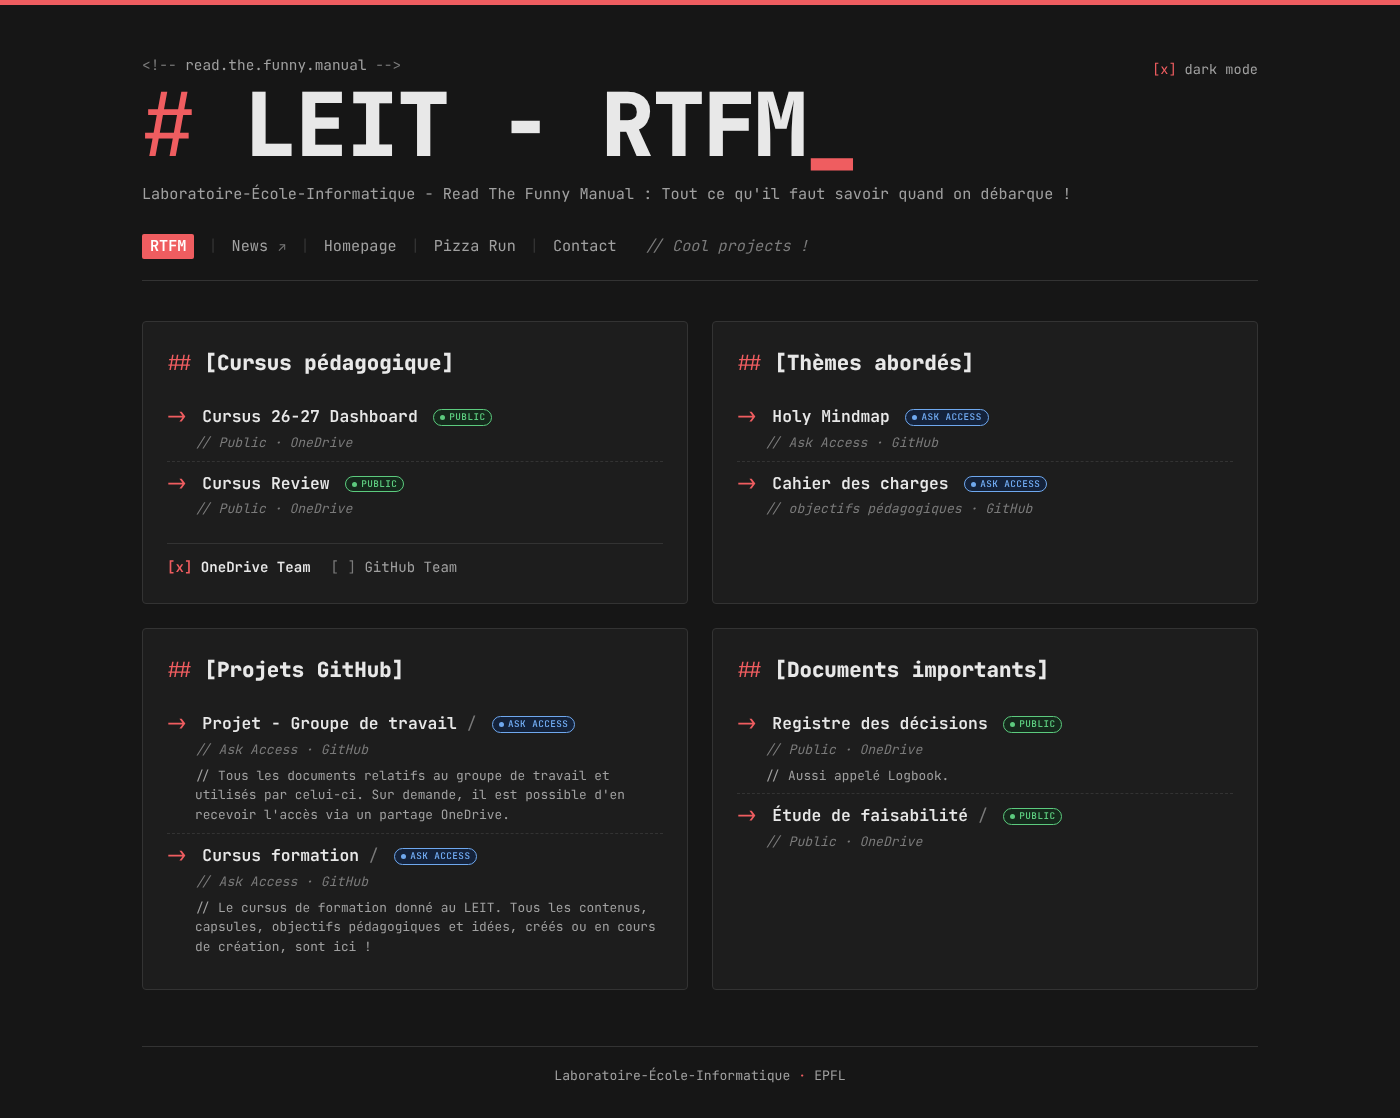
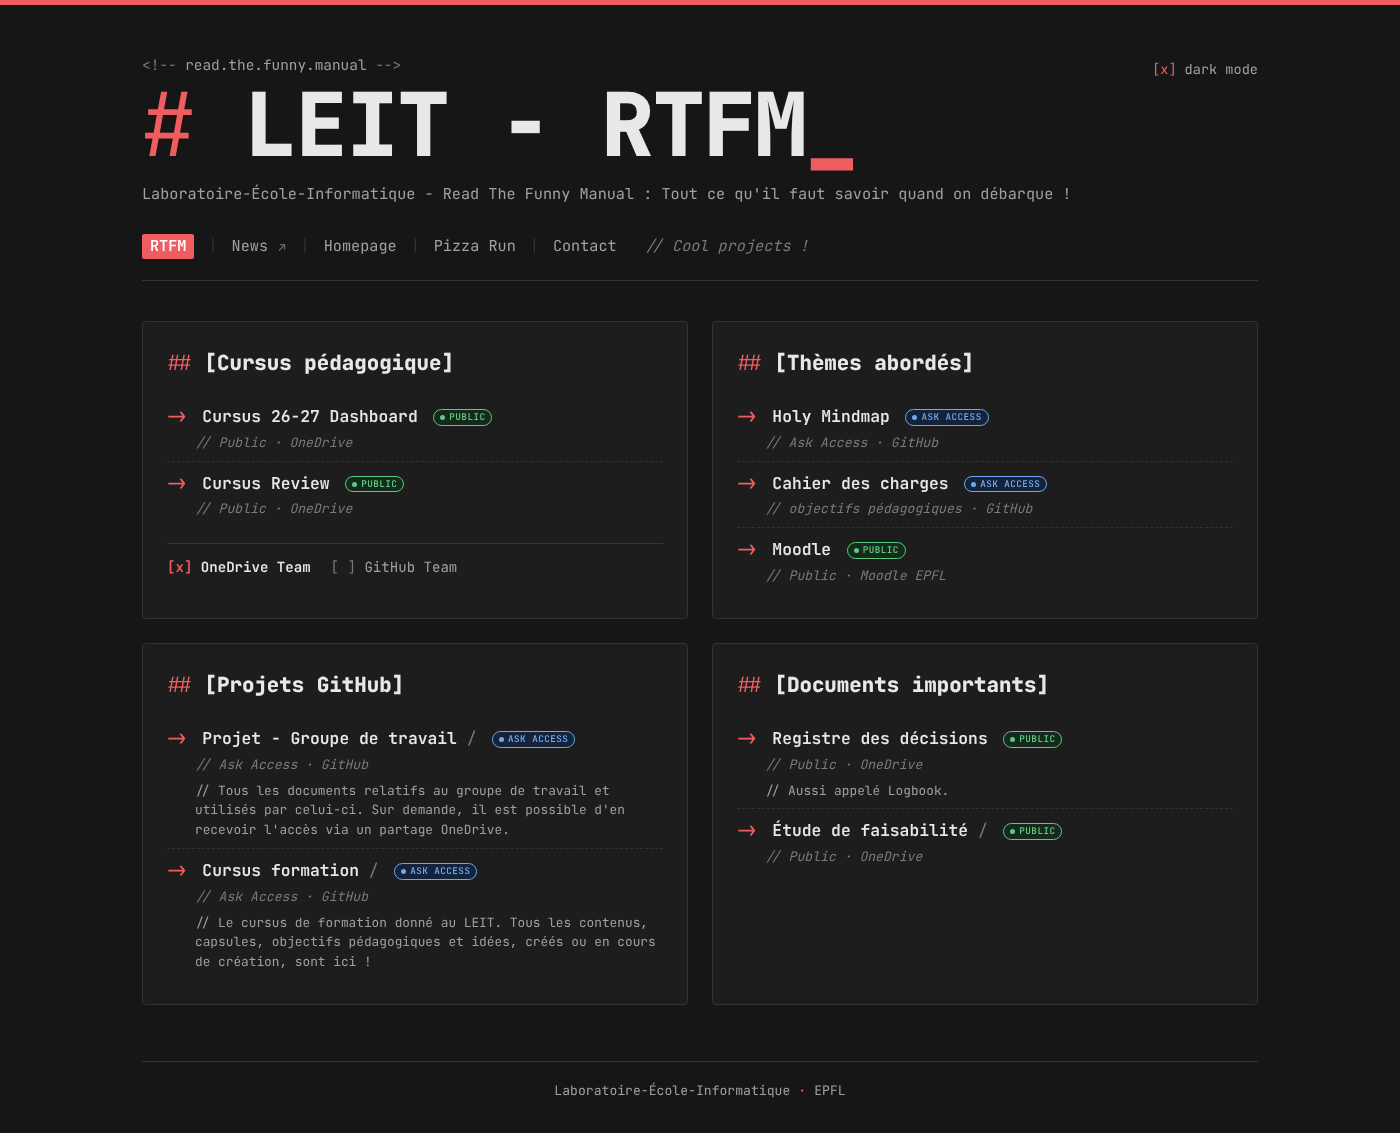
Ajout du lien Moodle (public) dans Thèmes abordés
Claude-Session: https://claude.ai/code/session_01XgbK6VpnzqvLJ4Qjiadm7W

diff --git a/index.html b/index.html
@@ -92,6 +92,12 @@
               <span class="comment">// objectifs pédagogiques · GitHub</span>
             </span>
           </li>
+          <li>
+            <a href="https://moodle.epfl.ch/course/view.php?id=19165" target="_blank" rel="noopener"><span class="arrow">-&gt;</span> Moodle</a> <span class="pill public" tabindex="0" data-tip="clic et c'est ouvert">public</span>
+            <span class="meta">
+              <span class="comment">// Public · Moodle EPFL</span>
+            </span>
+          </li>
         </ul>
       </section>
 

diff --git a/README.md b/README.md
@@ -14,7 +14,7 @@ La page est organisée en quatre blocs :
 | Section | Contenu |
 | --- | --- |
 | **[Cursus pédagogique]** | Cursus 26-27 Dashboard, Cursus Review. Choix de la source : `[x] OneDrive Team` ou `[ ] GitHub Team` |
-| **[Thèmes abordés]** | Holy Mindmap, Cahier des charges (objectifs pédagogiques) |
+| **[Thèmes abordés]** | Holy Mindmap, Cahier des charges (objectifs pédagogiques), Moodle |
 | **[Projets GitHub]** | Projet - Groupe de travail, Cursus formation |
 | **[Documents importants]** | Registre des décisions (Logbook), Étude de faisabilité |
 
